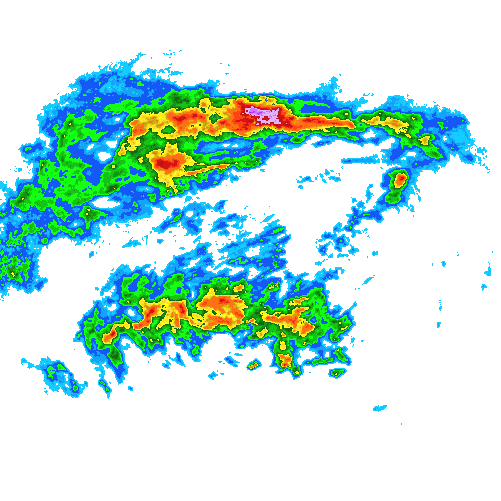
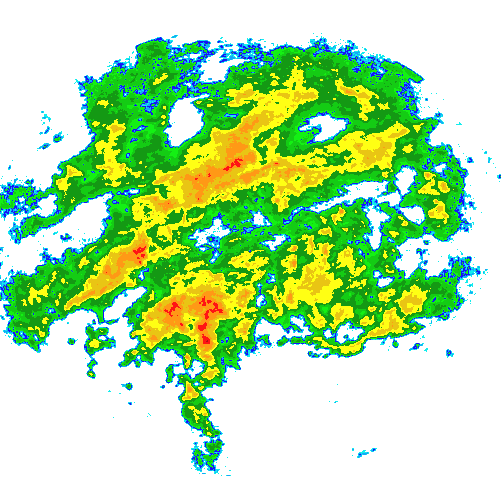
Show official-colormap samples in the S2RAIN dataset comparison
Sample 1 of SEVIR, Shanghai Radar, and MeteoNet in each dataset's own
colormap, the Korean box as PEAK* with its size and country, USA for
SEVIR, and PEAK introduced as a dataset for deep learning applications.

diff --git a/s2rain-ai4sci-2026/index.html b/s2rain-ai4sci-2026/index.html
@@ -448,11 +448,11 @@ function toStage(x, y) { const h = cam.w * H / W; return [(x - (cam.x - cam.w / 
 // ---------- lineup: benchmark radar domains, same scale ----------
 const FP = [
   // each box holds a real sample (frames/sample_<key>.webp, from make_samples.py); ll is the box centre for the land outline
-  { key: 'sevir', name: 'SEVIR', dims: '384 km, US', country: 'US', w: 384, h: 384, color: 'var(--sevir)', ll: [-103.5, 36.6] },   // the sample's storm, eastern New Mexico
+  { key: 'sevir', name: 'SEVIR', dims: '384 km, USA', country: 'USA', w: 384, h: 384, color: 'var(--sevir)', ll: [-98.38, 45.15] },   // the sample's storm, South Dakota (inland: the box is all land)
   // Shanghai Radar: 501 x 501 cells at 0.01 degrees (about 477 km east-west, 557 km north-south); no published georeferencing, so no land outline
   { key: 'shanghai', name: 'Shanghai', dims: 'About 500 km, China', country: 'China', w: 477, h: 557, color: 'var(--hk)', ll: null },
   { key: 'meteonet', name: 'MeteoNet', dims: '573 × 628 km, France', country: 'France', w: 573, h: 628, color: 'var(--meteo)', ll: [-1.922, 49.071] },
-  { key: 'korea', name: 'PEAK* Korea', dims: '1,024 km', country: '1,024 km', w: 1024, h: 1024, color: 'var(--peak)', ll: [126.897, 35.727] },
+  { key: 'korea', name: 'PEAK*', dims: '1,024 km, Korea', country: 'Korea', w: 1024, h: 1024, color: 'var(--peak)', ll: [126.897, 35.727] },
 ];
 let lineup = [];
 const GAP = 320;
@@ -902,10 +902,10 @@ const STEPS = [
       if (n) camTo(lineupView(n), 1300);
       tween(lineup[n], 'dy', 0, 900, n ? 500 : 150); tween(lineup[n], 'op', 1, 700, n ? 500 : 150);
       if (!n) { capWidth('470px'); caption('Most AI nowcasting datasets are built from weather radar.');
-        foot(`Real samples, same scale. Colors show rain rate, except SEVIR (VIL) and Shanghai (reflectivity). *PEAK is under review.\n`
-          + `Sources: ${SRC.sevir}, ${SRC.shanghai} (no published coordinates, so no coastline), ${SRC.meteonet}, and the ${SRC.kma} radar network.`, '1030px'); } } })),
+        foot(`Real samples at the same scale, each in its own colors: VIL for SEVIR, reflectivity for Shanghai, rainfall for MeteoNet and PEAK*.\n`
+          + `Sources: ${SRC.sevir}, ${SRC.shanghai} (no published coordinates, so no coastline), ${SRC.meteonet}, ${SRC.kma}. *PEAK is under review.`, '1030px'); } } })),
   { slide: 2, run() { camTo(allFit(), 2200); tween(st, 'peak', 1, 1800, 900); tween(st, 'ea', 1, 1400, 1400);
-      capWidth('470px'); caption('We introduce <span class="pk">PEAK*</span>: <b class="pk">P</b>recipitation over <b class="pk">E</b>ast <b class="pk">A</b>sia and <b class="pk">K</b>orea.'); stat(true);
+      capWidth('470px'); caption('We introduce the <span class="pk">PEAK*</span> dataset for deep learning applications: <b class="pk">P</b>recipitation over <b class="pk">E</b>ast <b class="pk">A</b>sia and <b class="pk">K</b>orea.'); stat(true);
       foot(PEAK_NOTE + '\nEast Asia: satellite images, satellite rainfall, and terrain. Korea adds radar, gauges, and lightning.'); } },
   { slide: 2, run() { stat(false); tween(st, 'lineup', 0, 900); tween(st, 'shade', 1, 1200);
       camTo(rightFit((RB.x0 + RB.x1) / 2, (RB.y0 + RB.y1) / 2, Math.max(RB.x1 - RB.x0, RB.y1 - RB.y0), (RB.y1 - RB.y0) * 1.24), 2600); tween(st, 'imIn', 1, 1200, 1600);
@@ -931,7 +931,7 @@ const STEPS = [
   { slide: 5, run() { cls('.node,.arrow,.goal', 'in', false);
       tween(st, 'map', 1, 1200, 300); tween(st, 'imOut', 0, 900); tween(st, 'imIn', 0, 900); tween(st, 'edge', 0, 900);   // back to the satellite view, clouds only
       camTo(satView(), 1600);
-      caption('We curated PEAK* for precipitation research. For rainfall retrieval, we take four GK2A infrared and water-vapor channels, plus terrain.');
+      caption('We curated the PEAK* dataset for precipitation research. For rainfall retrieval, we take four GK2A infrared and water-vapor channels, plus terrain.');
       foot(PEAK_NOTE + '\n' + CH_NOTE); } },
   { slide: 5, run() {
       tween(st, 'map', 0, 700, 200);
